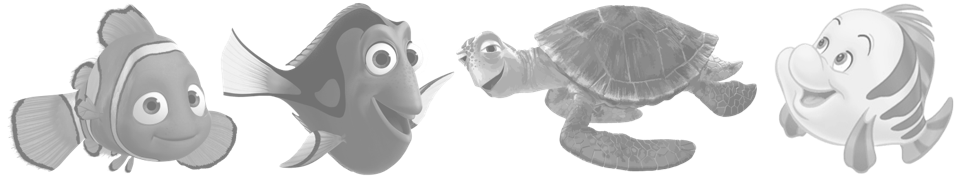
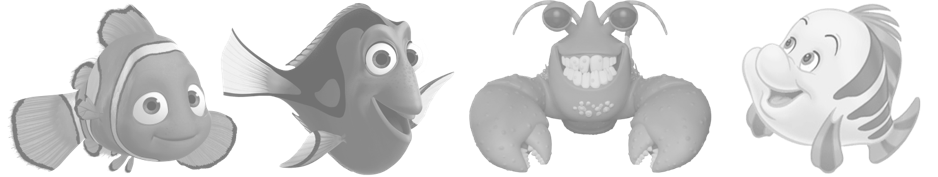
tamatoas instead of crush

diff --git a/resa_app_v1_online.py b/resa_app_v1_online.py
@@ -429,7 +429,7 @@ def main():
             "image": "aquarium.jpg",
             "excel": "FlexAqua.xlsx",
             "sidebar_image": "aqua.png",
-            "offices": ["Némo", "Dori", "Crush", "Polochon"]
+            "offices": ["Némo", "Dori", "Tamatoa", "Polochon"]
         }
     }
 
